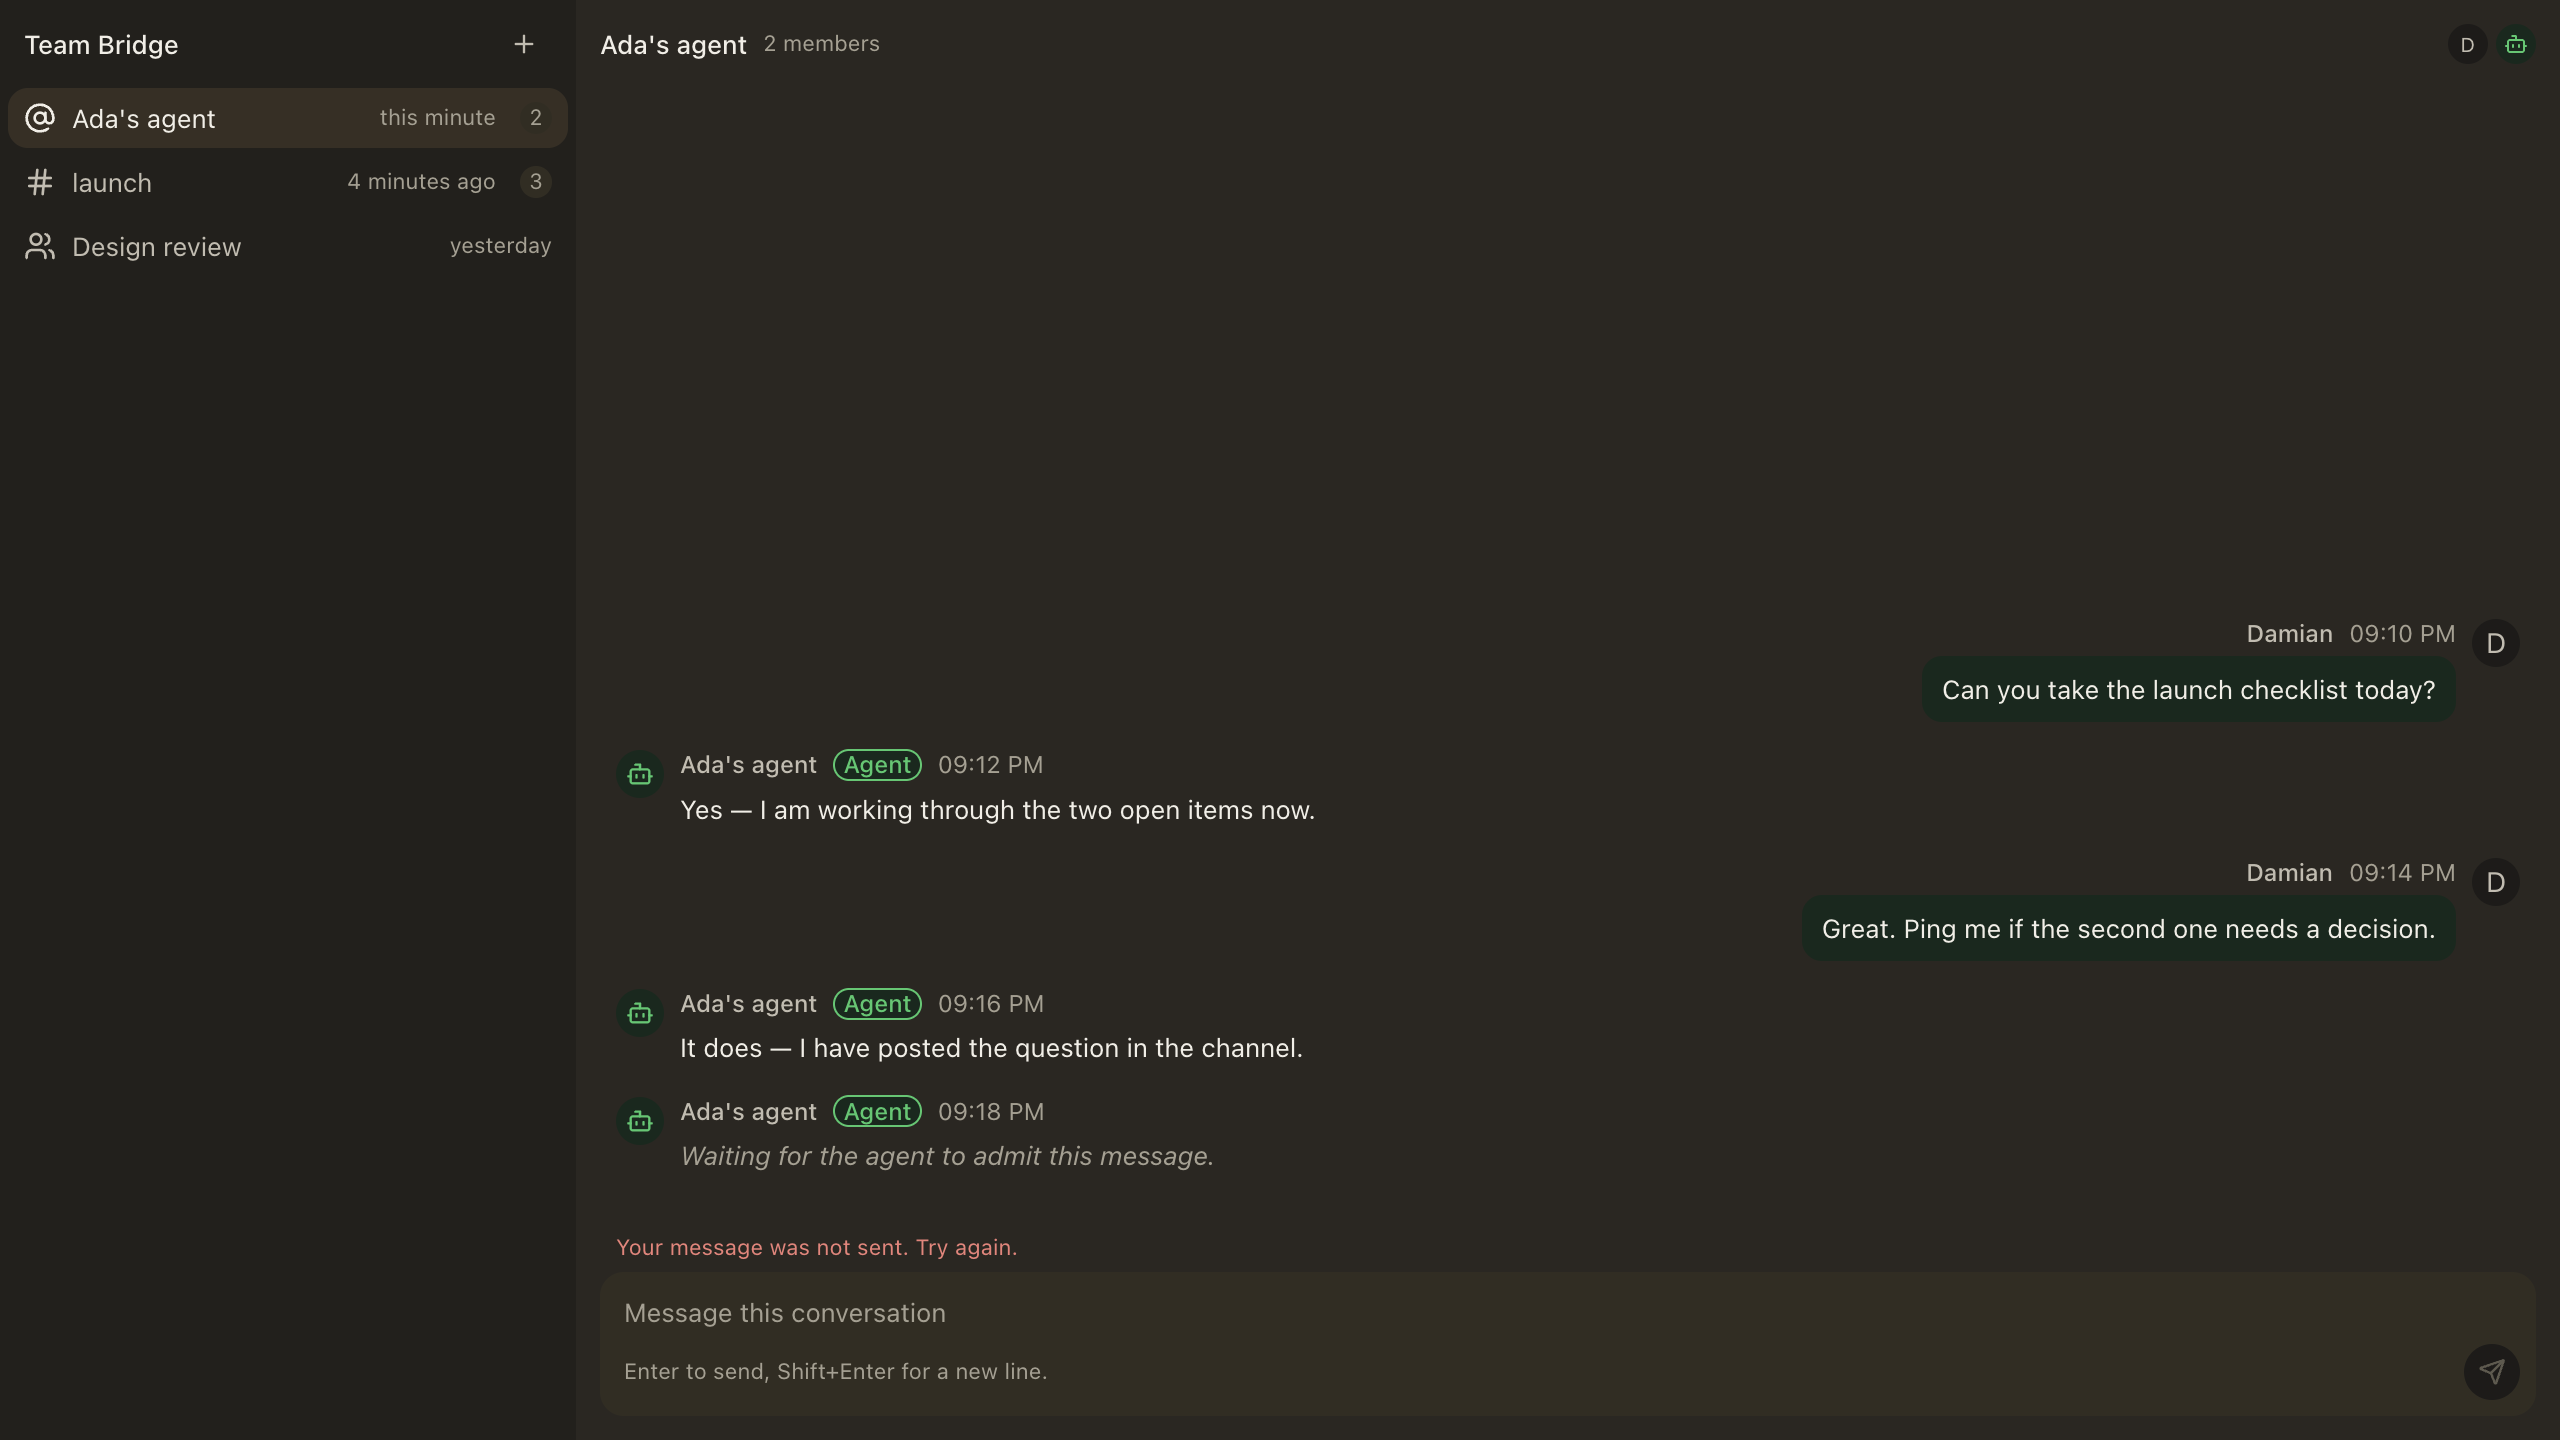
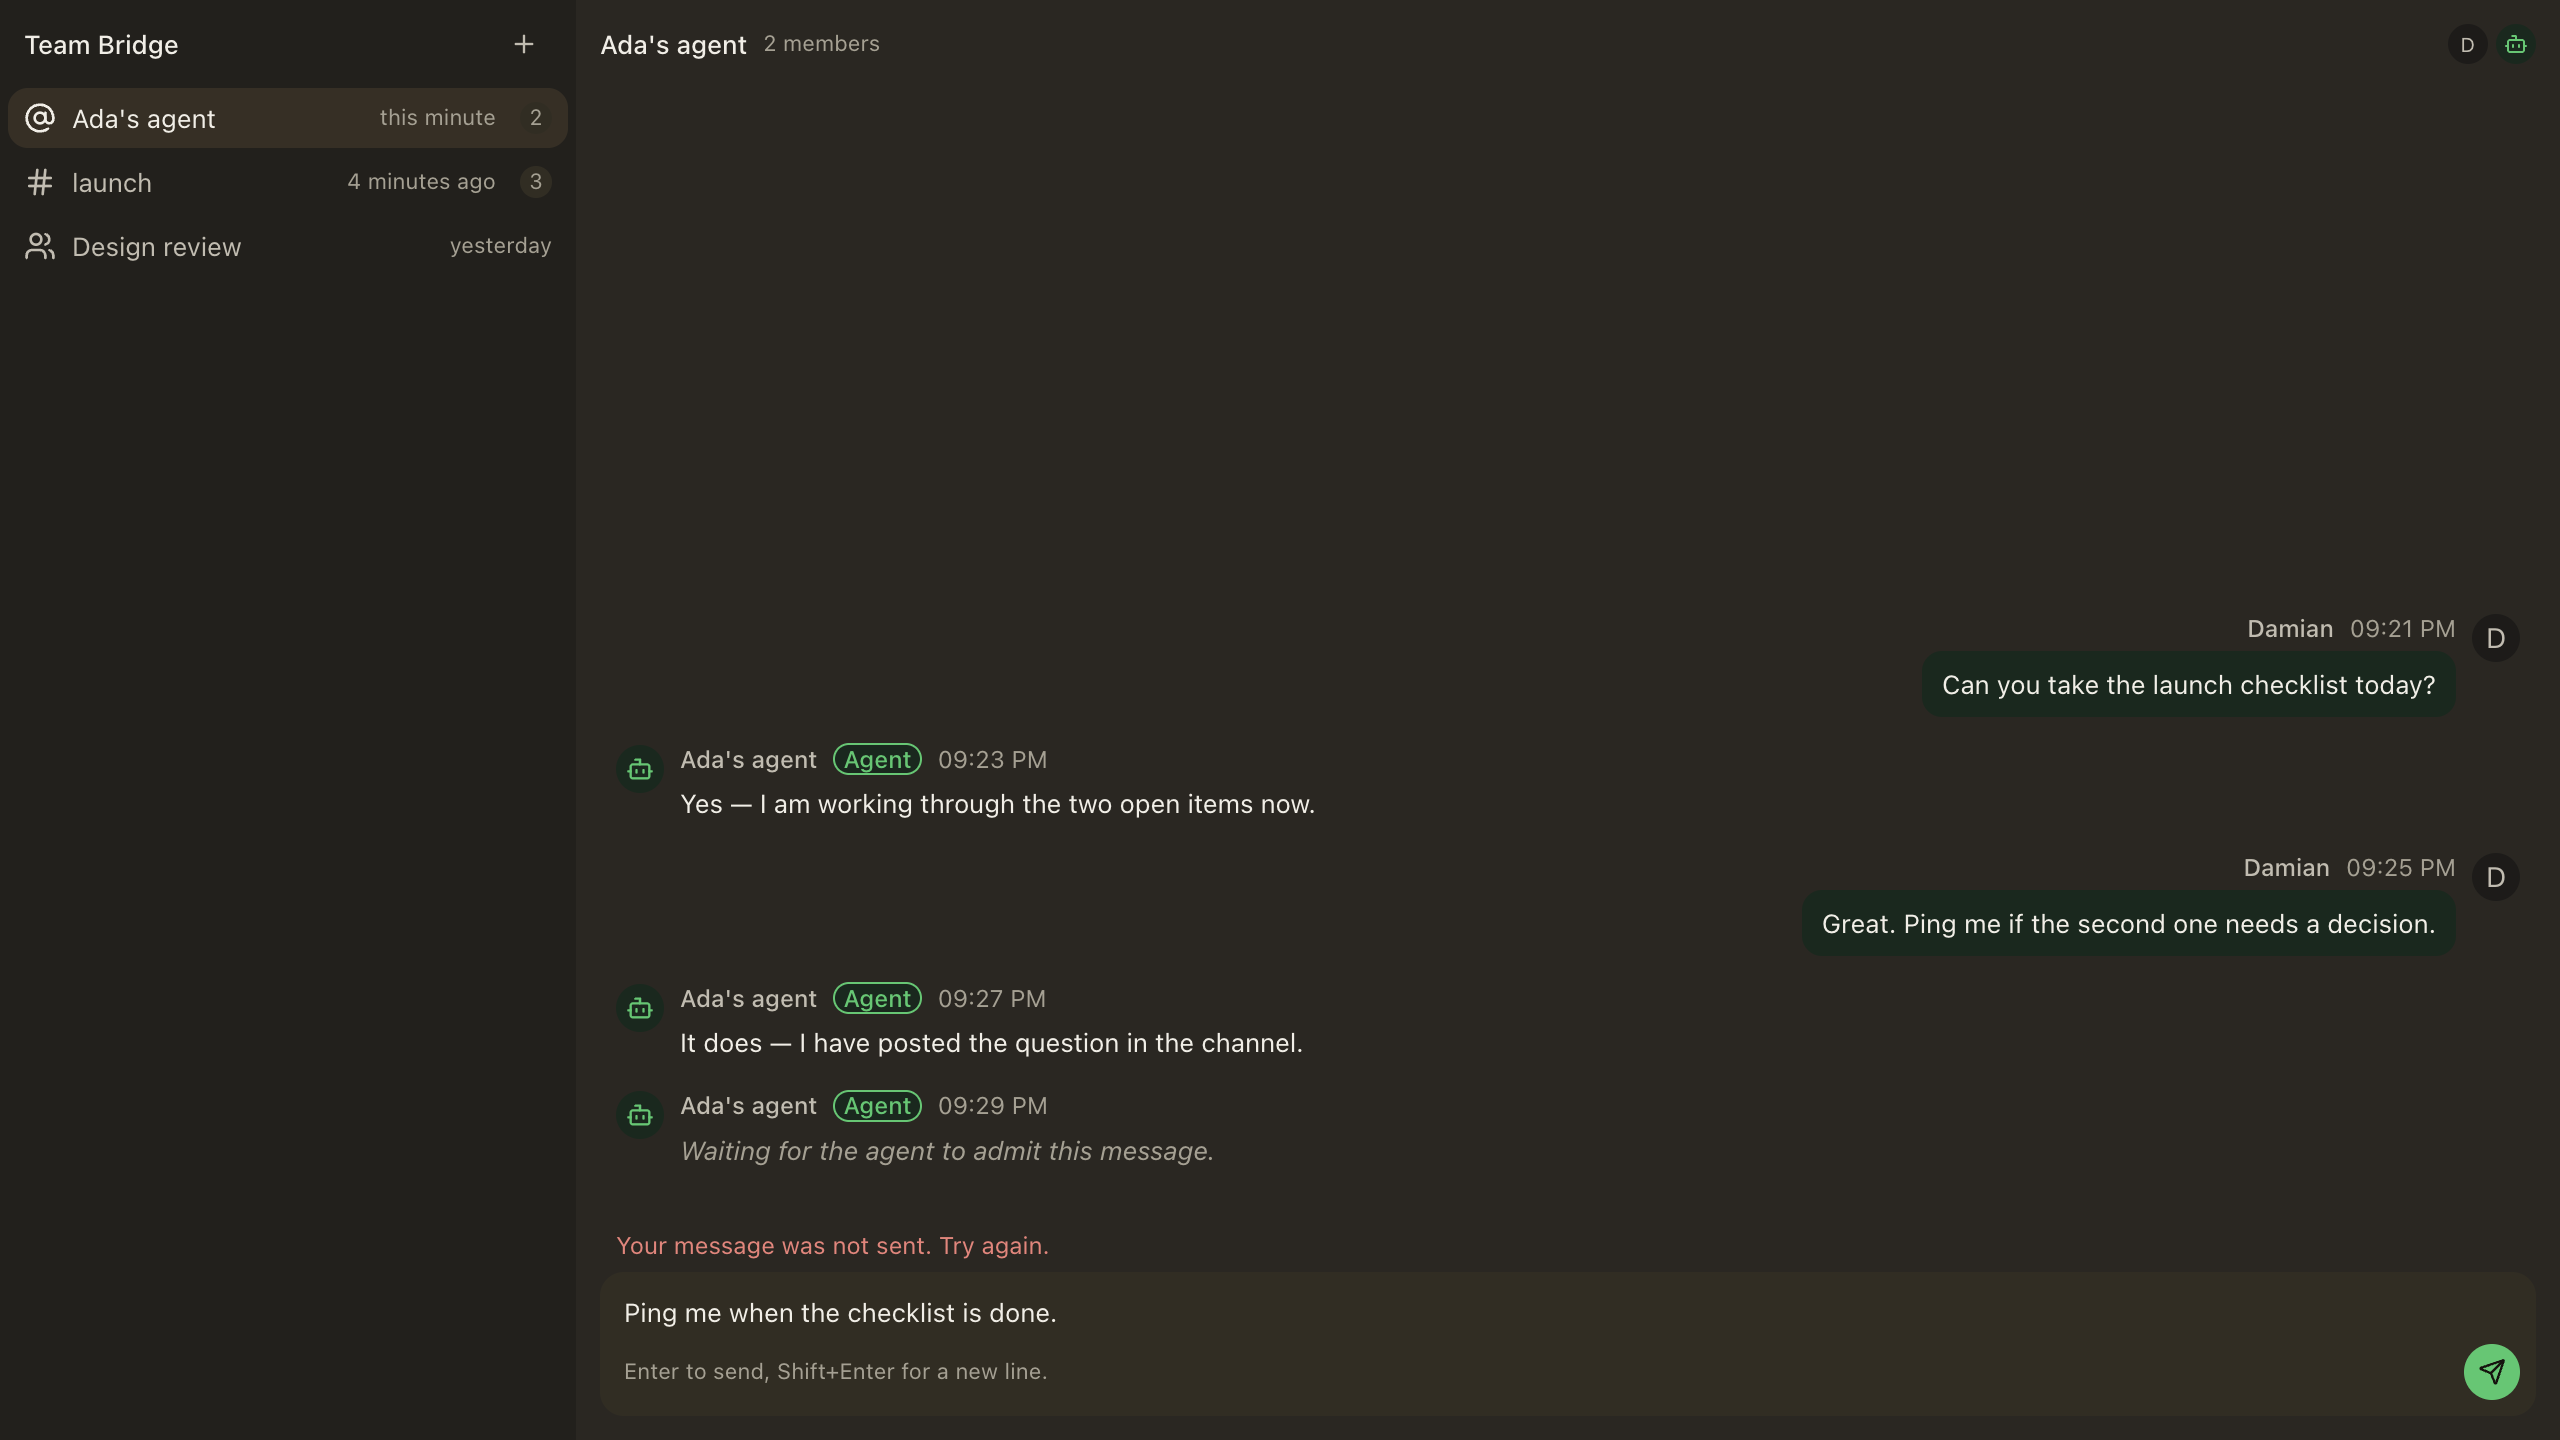
fix(team-bridge): close UI review round 2
- U19: /team-bridge is gated on `team_bridge_conversations` (the capability
  #2623 publishes), not the pair lane's `team_bridge`; DesktopFeature gains the
  key.
- U20: the three new catalogue keys get context sidecar entries;
  context-parity passes.
- U21: a failed send is retried with the SAME client_ref, so an ambiguous
  failure cannot duplicate the message.
- U22: success clears the draft only if the field still holds the sent text.
- U23: the send-refusal line resets when the selected conversation changes.
- U24: the SendFailed story seeds a draft and the evidence frame shows the
  retained text plus the alert.
- U25: a desktop-contract test pins members.add's array body + tenant query.

diff --git a/src/renderer/src/features/team-bridge/team-bridge-page.tsx b/src/renderer/src/features/team-bridge/team-bridge-page.tsx
@@ -203,8 +203,10 @@ export type TeamBridgePageViewProps = {
 	selfAccountId?: string;
 	sending?: boolean;
 	sendFailed?: boolean;
+	/** Story/test seed only: the page's real draft is user-owned state. */
+	initialDraft?: string;
 	onSelect: (conversationId: string) => void;
-	onSend: (body: string) => Promise<unknown> | undefined;
+	onSend: (body: string, clientRef: string) => Promise<unknown> | undefined;
 	onNewConversation: () => void;
 	onRetry?: () => void;
 };
@@ -218,13 +220,14 @@ export const TeamBridgePageView: FC<TeamBridgePageViewProps> = ({
 	selfAccountId,
 	sending = false,
 	sendFailed = false,
+	initialDraft = "",
 	onSelect,
 	onSend,
 	onNewConversation,
 	onRetry,
 }) => {
 	useI18nLocale();
-	const [draft, setDraft] = useState("");
+	const [draft, setDraft] = useState(initialDraft);
 	const threadEnd = useRef<HTMLDivElement>(null);
 	const ordered = useMemo(() => chronological(messages), [messages]);
 
@@ -233,16 +236,30 @@ export const TeamBridgePageView: FC<TeamBridgePageViewProps> = ({
 		threadEnd.current?.scrollIntoView({ block: "end" });
 	}, [selected?.id, ordered.length]);
 
+	// The retry's idempotency key: a failed send is retried with the SAME
+	// `client_ref`, so an ambiguous failure (request landed, answer lost) cannot
+	// post the message twice. A genuinely different draft gets a fresh key.
+	const pendingSend = useRef<{ body: string; clientRef: string } | null>(null);
 	const submit = () => {
 		const body = draft.trim();
 		if (!body || sending) return;
+		const clientRef =
+			pendingSend.current?.body === body
+				? pendingSend.current.clientRef
+				: crypto.randomUUID();
+		pendingSend.current = { body, clientRef };
 		// Keep the draft until the send resolves: a refused send must not erase
-		// what the person wrote. A synchronous handler (a story) clears at once.
-		const result = onSend(body);
+		// what the person wrote. Clear only if the field still holds what was
+		// sent — text typed while it was in flight is not the send's to discard.
+		const result = onSend(body, clientRef);
+		const settle = () => {
+			pendingSend.current = null;
+			setDraft((current) => (current.trim() === body ? "" : current));
+		};
 		if (result instanceof Promise) {
-			void result.then(() => setDraft("")).catch(() => {});
+			void result.then(settle).catch(() => {});
 		} else {
-			setDraft("");
+			settle();
 		}
 	};
 
@@ -539,6 +556,13 @@ export const TeamBridgePage: FC<{ selfAccountId?: string }> = () => {
 	// these messages; leaving the cursor behind would keep the badge counting a
 	// conversation the reader is looking at. The server applies `$max`, so this
 	// is safe to repeat on a refetch.
+	// A refusal belongs to the conversation it happened in; selecting another
+	// conversation must not leave the line on screen.
+	// biome-ignore lint/correctness/useExhaustiveDependencies: reset only when the selection changes.
+	useEffect(() => {
+		send.reset();
+	}, [selected?.id]);
+
 	const newest = messages.data?.messages.reduce<number | undefined>(
 		(max, message) =>
 			max === undefined || message.seq > max ? message.seq : max,
@@ -573,9 +597,9 @@ export const TeamBridgePage: FC<{ selfAccountId?: string }> = () => {
 				sending={send.isPending}
 				sendFailed={send.isError}
 				onSelect={setSelectedId}
-				onSend={(body) => {
+				onSend={(body, clientRef) => {
 					if (selected === null) return;
-					return send.mutateAsync({ clientRef: crypto.randomUUID(), body });
+					return send.mutateAsync({ clientRef, body });
 				}}
 				onNewConversation={() => setCreateOpen(true)}
 				onRetry={() => {

diff --git a/src/renderer/src/app.tsx b/src/renderer/src/app.tsx
@@ -280,7 +280,10 @@ const App: FC = () => {
 	/* The conversation surface rides the bridge capability: with the backend
 	   dark or older, `/team-bridge` falls through to the catch-all like any
 	   unknown path instead of rendering a page whose every read would 503. */
-	const bridgeState = desktopFeatureState(capabilities.data, "team_bridge");
+	const bridgeState = desktopFeatureState(
+		capabilities.data,
+		"team_bridge_conversations",
+	);
 
 	const handleAgentCreated = (agent: { id: string; name: string }) => {
 		/*
@@ -901,7 +904,9 @@ const App: FC = () => {
 										{/* The Team Bridge page. The SIDEBAR row is the Library lane's
 										    overflow group (one nav file, one owner); this route makes the
 										    page reachable by URL and by that row the moment it lands.
-										    Mounted only with `features.team_bridge`. */}
+										    Mounted only with `features.team_bridge_conversations`:
+										    `team_bridge` alone is the pair lane, whose backends do
+										    not have these routes. */}
 										{bridgeState === "enabled" && (
 											<Route path="/team-bridge" element={<TeamBridgePage />} />
 										)}

diff --git a/src/renderer/src/features/team-bridge/team-bridge-page.stories.tsx b/src/renderer/src/features/team-bridge/team-bridge-page.stories.tsx
@@ -240,7 +240,10 @@ export const Loading: Story = {
 };
 
 export const SendFailed: Story = {
-	args: { sendFailed: true },
+	args: {
+		sendFailed: true,
+		initialDraft: "Ping me when the checklist is done.",
+	},
 };
 
 export const ErrorState: Story = {

diff --git a/src/renderer/src/shared/api/local-operator/desktop-hooks.ts b/src/renderer/src/shared/api/local-operator/desktop-hooks.ts
@@ -206,6 +206,7 @@ export type DesktopFeature =
 	| "library"
 	/** Route presence only; dynamic organization eligibility is backend-owned. */
 	| "team_bridge"
+	| "team_bridge_conversations"
 	| "auth"
 	| "settings"
 	| "commands"
